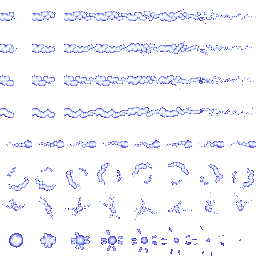
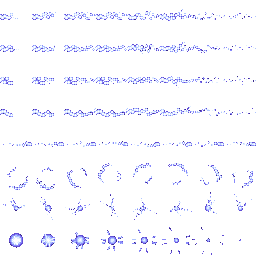
Akasha's lightning: thin bolts fired at random as projectiles

diff --git a/core/src/main/java/vajra/world/AstraFlow.java b/core/src/main/java/vajra/world/AstraFlow.java
@@ -56,18 +56,14 @@ public final class AstraFlow {
     public final ArrayList<Object[]> zapped = new ArrayList<>();
     private static final class Strike { Enemy e; float at; boolean done; float mult; }
     private final ArrayList<Strike> strikes = new ArrayList<>();
-    private int wave;
     private float zapAcc;
-    /** WAVES of lightning: the ring leaves at WAVE_GAP intervals, each striking every foe in reach; the first is the heaviest. */
-    public static final int WAVES = 5;
-    public static final float WAVE_GAP = 0.4f, ZAP_RATE = 0.07f, ZAP_SPEED = 1400f, ZAP_HIT = 15f, SHOCK_SECONDS = 0.7f;
-    private static final float[] WAVE_MULT = {1f, 0.45f, 0.35f, 0.3f, 0.25f};
+    /** Lightning is loosed as projectiles for FIRE_SECONDS, one every ZAP_RATE, at random angles. */
+    public static final float FIRE_SECONDS = 2.0f, ZAP_RATE = 0.02f, ZAP_SPEED = 1300f, ZAP_HIT = 24f, SHOCK_SECONDS = 0.7f;
     /** A small bolt thrown from the hull at a foe: it flies at ZAP_SPEED and shocks the foe where it lands. */
-    public static final class Zap { public float x, y, ang, age; public Enemy e; }
+    public static final class Zap { public float x, y, ang, age, flown, range; }
     public final ArrayList<Zap> zaps = new ArrayList<>();
     /** Where a thrown bolt landed: x, y, seconds since. */
     public final ArrayList<float[]> sparks = new ArrayList<>();
-    public int waveCount() { return wave; }
 
     // ---- Prithvi: the boulders ----
     public static final float T_ROCK = 3.0f, ROCK_DAMAGE = 70f, CHUNK_DAMAGE = 28f, PEBBLE_DAMAGE = 7f;
@@ -132,7 +128,6 @@ public final class AstraFlow {
         spawnAcc = scorchAcc = 0f;
         cuts = 0;
         thrown = false;
-        wave = 0;
         zapAcc = 0f;
         zaps.clear();
         sparks.clear();
@@ -183,86 +178,66 @@ public final class AstraFlow {
         zapped.add(new Object[] {e, t + dur});
     }
 
-    private void launchWave(World w, int k) {
-        int spokes = 12 + 2 * Math.min(k, 3);
-        float a0 = rng.nextFloat() * 6.2831853f;
-        for (int i = 0; i < spokes; i++) {                                 // the ring: bolts to every side, no two waves the same
-            float a = a0 + i * 6.2831853f / spokes + (rng.nextFloat() - 0.5f) * 0.35f, len = radius * (0.55f + 0.45f * rng.nextFloat());
-            addBolt(ship.x, ship.y, ship.x + (float) Math.cos(a) * len, ship.y + (float) Math.sin(a) * len, 0.55f, true);
-        }
-        ArrayList<Enemy> in = new ArrayList<>();
+    /** One projectile: a bolt leaves the hull at a random angle (about half of them aimed at a foe, with error) and flies straight until it touches a foe or runs out of range. */
+    private void fire(World w) {
+        if (zaps.size() >= 60) return;
+        float a;
+        ArrayList<Enemy> pool = new ArrayList<>();
         for (Enemy e : w.enemies) {
             if (!eligible(e)) continue;
             float dx = e.x - ship.x, dy = e.y - ship.y;
-            if (dx * dx + dy * dy <= radius * radius) in.add(e);
+            if (dx * dx + dy * dy <= radius * radius * 2.2f) pool.add(e);
         }
-        final float sx = ship.x, sy = ship.y;
-        in.sort((p, q) -> Float.compare((p.x - sx) * (p.x - sx) + (p.y - sy) * (p.y - sy), (q.x - sx) * (q.x - sx) + (q.y - sy) * (q.y - sy)));
-        for (int i = 0; i < in.size(); i++) {                              // nearest first, one every 12 ms
-            Strike s = new Strike();
-            s.e = in.get(i);
-            s.at = t + 0.05f + 0.012f * Math.min(i, 40);
-            s.mult = WAVE_MULT[Math.min(k, WAVE_MULT.length - 1)];
-            strikes.add(s);
-        }
+        if (!pool.isEmpty() && rng.nextFloat() < 0.5f) {
+            Enemy e = pool.get(rng.nextInt(pool.size()));
+            a = (float) Math.atan2(e.y - ship.y, e.x - ship.x) + (rng.nextFloat() - 0.5f) * 0.25f;
+        } else a = rng.nextFloat() * 6.2831853f;
+        Zap z = new Zap();
+        float off = 24f;
+        z.x = ship.x + (float) Math.cos(a) * off; z.y = ship.y + (float) Math.sin(a) * off;
+        z.ang = a;
+        z.range = radius * (1.1f + 0.7f * rng.nextFloat());
+        zaps.add(z);
     }
 
     private void stepLightning(World w, float dt) {
         for (int i = bolts.size() - 1; i >= 0; i--) if ((bolts.get(i).age += dt) > bolts.get(i).life) bolts.remove(i);
         for (int i = sparks.size() - 1; i >= 0; i--) if ((sparks.get(i)[2] += dt) > 0.28f) sparks.remove(i);
-        while (wave < WAVES && t >= wave * WAVE_GAP) launchWave(w, wave++);
-        if (t >= 0.15f && t <= WAVES * WAVE_GAP - 0.1f) {                  // small bolts thrown from the hull at foes, one every 70 ms
+        if (t <= FIRE_SECONDS) {                                           // bolts loosed at random, many a second
             zapAcc += dt;
-            while (zapAcc >= ZAP_RATE) {
-                zapAcc -= ZAP_RATE;
-                if (zaps.size() >= 40) break;
-                ArrayList<Enemy> pool = new ArrayList<>();
-                for (Enemy e : w.enemies) {
-                    if (!eligible(e)) continue;
-                    float dx = e.x - ship.x, dy = e.y - ship.y;
-                    if (dx * dx + dy * dy <= radius * radius * 1.7f) pool.add(e);
-                }
-                if (pool.isEmpty()) break;
-                Zap z = new Zap();
-                z.x = ship.x; z.y = ship.y;
-                z.e = pool.get(rng.nextInt(pool.size()));
-                z.ang = (float) Math.atan2(z.e.y - z.y, z.e.x - z.x);
-                zaps.add(z);
-            }
+            while (zapAcc >= ZAP_RATE) { zapAcc -= ZAP_RATE; fire(w); }
         }
-        for (int i = zaps.size() - 1; i >= 0; i--) {                       // each flies at its foe and shocks it where it lands
+        for (int i = zaps.size() - 1; i >= 0; i--) {
             Zap z = zaps.get(i);
+            float step = ZAP_SPEED * dt;
             z.age += dt;
-            if (z.e.dead || z.age > 1.5f) { zaps.remove(i); continue; }
-            float dx = z.e.x - z.x, dy = z.e.y - z.y, d = (float) Math.sqrt(dx * dx + dy * dy), step = ZAP_SPEED * dt;
-            z.ang = (float) Math.atan2(dy, dx);
-            if (d <= step + Math.max(z.e.w, z.e.h) * 0.3f) {
-                sparks.add(new float[] {z.e.x, z.e.y, 0f});
-                if (!w.clientSeat) z.e.hurt(ZAP_HIT * dm, w, seat);
-                shock(z.e, SHOCK_SECONDS);
-                zaps.remove(i);
-            } else { z.x += dx / d * step; z.y += dy / d * step; }
-        }
-        for (Strike s : strikes) {
-            if (s.done || t < s.at) continue;
-            s.done = true;
-            Enemy e = s.e;
-            if (e.dead) continue;
-            addBolt(ship.x, ship.y, e.x, e.y, 0.4f, false);
-            shock(e, ZAP_STUN + 0.2f);
-            if (!w.clientSeat) {
-                e.hurt(ZAP_DAMAGE * dm * s.mult, w, seat);
-                if (!e.boss && !e.dead) { e.caught = Math.max(e.caught, ZAP_STUN * (s.mult < 1f ? 0.6f : 1f)); e.active = true; }
-                int arcs = 0;                                              // the lightning jumps from it to the two nearest foes within reach
-                for (Enemy o : w.enemies) {
-                    if (o == e || !eligible(o) || arcs >= 2) continue;
-                    float dx = o.x - e.x, dy = o.y - e.y;
-                    if (dx * dx + dy * dy > ARC_REACH * ARC_REACH) continue;
-                    arcs++;
-                    addBolt(e.x, e.y, o.x, o.y, 0.3f, false);
-                    shock(o, 0.4f);
-                    o.hurt(ZAP_DAMAGE * dm * s.mult * ARC_SHARE, w, seat);
-                }
+            z.x += (float) Math.cos(z.ang) * step;
+            z.y += (float) Math.sin(z.ang) * step;
+            z.flown += step;
+            Enemy hit = null;
+            for (Enemy e : w.enemies) {
+                if (!eligible(e)) continue;
+                float dx = e.x - z.x, dy = e.y - z.y, r = Math.max(e.w, e.h) * 0.5f + 8f;
+                if (dx * dx + dy * dy <= r * r) { hit = e; break; }
+            }
+            if (hit == null) { if (z.flown > z.range) zaps.remove(i); continue; }
+            zaps.remove(i);
+            sparks.add(new float[] {z.x, z.y, 0f});
+            shock(hit, SHOCK_SECONDS);
+            if (w.clientSeat) continue;
+            hit.hurt(ZAP_HIT * dm, w, seat);
+            if (!hit.boss && !hit.dead) { hit.caught = Math.max(hit.caught, ZAP_STUN); hit.active = true; }
+            Enemy best = null;
+            float bd = ARC_REACH * ARC_REACH;
+            for (Enemy o : w.enemies) {                                    // and it jumps, thin, to the nearest foe within reach
+                if (o == hit || !eligible(o)) continue;
+                float dx = o.x - hit.x, dy = o.y - hit.y, d = dx * dx + dy * dy;
+                if (d < bd) { bd = d; best = o; }
+            }
+            if (best != null) {
+                addBolt(hit.x, hit.y, best.x, best.y, 0.3f, false);
+                shock(best, 0.4f);
+                best.hurt(ZAP_HIT * dm * ARC_SHARE, w, seat);
             }
         }
         for (int i = zapped.size() - 1; i >= 0; i--) {
@@ -270,9 +245,7 @@ public final class AstraFlow {
             float left = (Float) zapped.get(i)[1] - t;
             if (left <= 0f || e.dead) { e.shockT = 0f; zapped.remove(i); } else e.shockT = left;
         }
-        boolean pending = false;
-        for (Strike s : strikes) if (!s.done) { pending = true; break; }
-        if (wave >= WAVES && t > WAVES * WAVE_GAP && !pending && bolts.isEmpty() && zaps.isEmpty() && sparks.isEmpty() && zapped.isEmpty()) cancel();
+        if (t > FIRE_SECONDS && bolts.isEmpty() && zaps.isEmpty() && sparks.isEmpty() && zapped.isEmpty()) cancel();
     }
 
     /** PRITHVI: boulders form out of the mandala and are hurled (docs/ASTRA_NEXT_PLAN.md section 3). The mandala stays while it lasts. */

diff --git a/core/src/test/java/vajra/world/AstraNextTest.java b/core/src/test/java/vajra/world/AstraNextTest.java
@@ -68,55 +68,40 @@ class AstraNextTest {
     // ---- AKASHA ----------------------------------------------------------------------------------------------------------------------
 
     @Test
-    void theLightningStrikesEveryFoeInReachNearestFirstStunsThemAndArcsToTheirNeighbours() {
+    void theLightningIsLoosedAsProjectilesAtRandomAnglesThatShockAndStunWhatTheyTouch() {
         World w = arena();
-        Enemy near = foe(w, 2600 + 120, 2700, 400), mid = foe(w, 2600, 2700 + 250, 400), far = foe(w, 2600 - 330, 2700, 400), out = foe(w, 2600 + 900, 2700, 400);
-        Enemy buddy = foe(w, 2600 + 120 + 90, 2700, 400);                 // within arc reach of the nearest
-        w.ship.shieldEnergy = 0f;
+        Enemy e = foe(w, 2600 + 220, 2700, 100000);
         w.flow.startLightning(w.ship, 0, 1f, 1f, 7L);
-        run(w, 0.02f);
-        assertTrue(near.hp == 400f && mid.hp == 400f, "nothing is struck in the very first instant");
-        run(w, 0.6f);
-        assertTrue(near.hp < 400f && mid.hp < 400f && far.hp < 400f, "every foe in reach was struck");
-        assertEquals(400f, out.hp, 0.001f, "and none outside it");
-        assertTrue(buddy.hp < 400f, "the lightning arcs to a neighbour within reach");
-        assertTrue(near.hp < buddy.hp + 1f || buddy.hp < 400f, "(the nearest took the full bolt)");
+        run(w, 0.3f);
+        assertTrue(!w.flow.zaps.isEmpty(), "bolts are in flight");
+        float lo = 99f, hi = -99f;
+        for (AstraFlow.Zap z : w.flow.zaps) { lo = Math.min(lo, z.ang); hi = Math.max(hi, z.ang); }
+        run(w, 0.5f);
+        for (AstraFlow.Zap z : w.flow.zaps) { lo = Math.min(lo, z.ang); hi = Math.max(hi, z.ang); }
+        assertTrue(hi - lo > 3f, "they leave at random angles, not in a ring (" + (hi - lo) + " rad)");
+        assertTrue(e.hp < 100000f - AstraFlow.ZAP_HIT, "the ones that touch a foe hurt it");
+        assertTrue(e.shockT > 0f || e.caught > 0f, "and shock it");
     }
 
     @Test
-    void aStruckFoeIsStunnedAndShockedAndTheNextWaveStrikesAgainForLess() {
+    void aBoltFlyingAwayFromEveryFoeHitsNothingAndTheLightningLastsAboutTwoSecondsThenEnds() {
         World w = arena();
-        Enemy e = foe(w, 2600 + 200, 2700, 5000);
-        w.flow.startLightning(w.ship, 0, 1f, 1f, 7L);
-        run(w, 0.12f);
-        assertTrue(e.caught > 0.3f, "it is stunned: its brain waits");
-        assertTrue(e.shockT > 0f, "and shocked: it jitters and crackles");
-        assertEquals(5000f - AstraFlow.ZAP_DAMAGE, e.hp, 1f, "the first strike is the full damage");
-        float afterFirst = e.hp;
-        run(w, 0.45f);
-        assertTrue(e.hp <= afterFirst - AstraFlow.ZAP_DAMAGE * 0.4f, "the second wave strikes again, lighter (" + (afterFirst - e.hp) + ")");
-    }
-
-    @Test
-    void theLightningLastsTwoSecondsInWavesOfBoltsInEveryDirectionWithSmallBoltsThrownAtFoes() {
-        World w = arena();
-        Enemy e = foe(w, 2600 + 250, 2700, 100000);
+        Enemy e = foe(w, 2600 + 220, 2700, 100000);
         w.flow.startLightning(w.ship, 0, 1f, 1f, 7L);
         run(w, 1.5f);
         assertTrue(w.flow.active(), "still crackling after a second and a half");
-        assertEquals(AstraFlow.WAVES, w.flow.waveCount() >= AstraFlow.WAVES - 1 ? AstraFlow.WAVES : w.flow.waveCount(), "waves keep coming");
-        float lo = 99f, hi = -99f;
-        w.flow.startLightning(w.ship, 0, 1f, 1f, 9L);                       // a fresh one, to read the spokes of its first wave
-        run(w, 0.02f);
-        for (AstraFlow.Bolt b : w.flow.bolts) { float a = (float) Math.atan2(b.y1 - b.y0, b.x1 - b.x0); lo = Math.min(lo, a); hi = Math.max(hi, a); }
-        assertTrue(hi - lo > 4f, "bolts leave in every direction (" + (hi - lo) + " rad)");
-        w.flow.startLightning(w.ship, 0, 1f, 1f, 7L);
-        e.hp = 100000f;
-        run(w, 0.3f);
-        assertTrue(!w.flow.zaps.isEmpty() || !w.flow.sparks.isEmpty() || e.hp < 100000f - AstraFlow.ZAP_DAMAGE, "small bolts are thrown at the foe");
         run(w, 4f);
         assertTrue(!w.flow.active(), "it ends");
         assertEquals(0f, e.shockT, 0.0001f, "and the shock ends with it");
+    }
+
+    @Test
+    void aFoeBeyondTheBoltsRangeIsNeverTouched() {
+        World w = arena();
+        Enemy out = foe(w, 2600 + 3000, 2700, 400);
+        w.flow.startLightning(w.ship, 0, 1f, 1f, 7L);
+        run(w, 3f);
+        assertEquals(400f, out.hp, 0.001f);
     }
 
     @Test

diff --git a/core/src/main/java/vajra/screen/FlowFx.java b/core/src/main/java/vajra/screen/FlowFx.java
@@ -121,20 +121,10 @@ final class FlowFx {
     /** AKASHA: bolts tiled end to end from the sheet (each forms, crackles and fades over its life), arcs round the ring of each wave, small bolts in flight, sparks where they land,
      *  and a web of sparks over every shocked foe. */
     private void lightning(SpriteBatch b, AstraFlow f, float time) {
-        for (int k = 0; k < f.waveCount(); k++) {                           // each wave's ring: curls of crackle racing out round the hull
-            float age = f.t - k * AstraFlow.WAVE_GAP;
-            if (age < 0f || age > 0.5f) continue;
-            float rr = f.radius * Math.min(1f, age / 0.3f), al = 1f - Math.max(0f, age - 0.3f) / 0.2f;
-            int arcs = 18;
-            for (int i = 0; i < arcs; i++) {
-                float a = i * 6.2831853f / arcs + k * 0.37f;
-                sprite(b, BOLT, 5, (int) (time * 20f) + i, f.ship.x + rr * (float) Math.cos(a), f.ship.y + rr * (float) Math.sin(a), 110f, (float) Math.toDegrees(a) + 90f, al);
-            }
-        }
         for (AstraFlow.Bolt bo : f.bolts) {
             float dx = bo.x1 - bo.x0, dy = bo.y1 - bo.y0, len = (float) Math.sqrt(dx * dx + dy * dy);
             if (len < 8f) continue;
-            float u = bo.age / bo.life, deg = (float) Math.toDegrees(Math.atan2(dy, dx)), h = bo.big ? 74f : 46f, ux = dx / len, uy = dy / len;
+            float u = bo.age / bo.life, deg = (float) Math.toDegrees(Math.atan2(dy, dx)), h = 44f, ux = dx / len, uy = dy / len;
             int fr = Math.min(7, (int) (u * 8f)), n = Math.max(1, (int) Math.ceil(len / 60f));
             float seg = len / n;
             for (int i = 0; i < n; i++) {
@@ -145,7 +135,7 @@ final class FlowFx {
                 b.draw(r, cx - seg / 2f, cy - h / 2f, seg / 2f, h / 2f, seg, h, 1f, 1f, deg);
             }
         }
-        for (AstraFlow.Zap z : f.zaps) sprite(b, BOLT, 4, (int) (z.age * 30f), z.x - (float) Math.cos(z.ang) * 18f, z.y - (float) Math.sin(z.ang) * 18f, 88f, (float) Math.toDegrees(z.ang), 1f);
+        for (AstraFlow.Zap z : f.zaps) sprite(b, BOLT, 4, (int) (z.age * 30f), z.x - (float) Math.cos(z.ang) * 36f, z.y - (float) Math.sin(z.ang) * 36f, 130f, (float) Math.toDegrees(z.ang), 1f);
         for (float[] sp : f.sparks) sprite(b, BOLT, 7, Math.min(7, (int) (sp[2] / 0.28f * 8f)), sp[0], sp[1], 90f, 0f, 1f);
         int idx = 0;
         for (Object[] zz : f.zapped) {                                      // a web of sparks and a curl of crackle over every shocked foe

diff --git a/core/src/main/java/vajra/screen/AstraFx.java b/core/src/main/java/vajra/screen/AstraFx.java
@@ -251,15 +251,8 @@ final class AstraFx {
     private static void lightning(ShapeRenderer s, World w, float t) {
         vajra.world.AstraFlow f = w.flow;
         if (f.ship == null) return;
-        for (int k = 0; k < f.waveCount(); k++) {
-            float age = f.t - k * vajra.world.AstraFlow.WAVE_GAP;
-            if (age < 0f || age > 0.6f) continue;
-            float rr = f.radius * Math.min(1f, age / 0.3f), fade = 1f - MathUtils.clamp((age - 0.3f) / 0.3f, 0f, 1f);
-            s.setColor(0.70f, 0.50f, 1f, 0.16f * fade);
-            ring(s, f.ship.x, f.ship.y, rr, 72, 9f);
-            s.setColor(0.85f, 0.75f, 1f, 0.10f * fade * Math.max(0f, 1f - age / 0.2f));
-            s.circle(f.ship.x, f.ship.y, f.radius * 0.35f, 32);
-        }
+        float fade = 1f - MathUtils.clamp(f.t / 0.3f, 0f, 1f);                // a violet flash at the hull as it begins
+        if (fade > 0f) { s.setColor(0.85f, 0.75f, 1f, 0.12f * fade); s.circle(f.ship.x, f.ship.y, f.radius * 0.35f, 32); }
     }
 
     private static float headSize(int element) {

diff --git a/tools/enemy_art/lightning.py b/tools/enemy_art/lightning.py
@@ -28,7 +28,7 @@ SKY = np.array([(255, 255, 255), (226, 238, 255), (176, 198, 255), (136, 138, 25
 
 def st(pts, ws, soft=1.0):
     """FX.stroke with every width scaled up: a bolt is a few pixels thick in a 32 px cell."""
-    return FX.stroke(pts, [w * 2.4 for w in ws], soft)
+    return FX.stroke(pts, [w * 1.6 for w in ws], soft)
 
 
 def path(rng, x0, x1, amp, n, y=32.0):
@@ -92,7 +92,7 @@ def zap_row(img, row):
         pts = path(rng, 6.0, 60.0, 4.0, 8)
         v = st(pts, [(0.6 + 1.9 * (i / 8.0)) for i in range(9)], 1.2)
         head = np.hypot(XS - 56, YS - 32)
-        v = np.maximum(v, np.clip(1.0 - head / 8.0, 0, 1) * (0.8 + 0.2 * math.sin(f * 1.7)))
+        v = np.maximum(v, np.clip(1.0 - head / 4.5, 0, 1) * (0.8 + 0.2 * math.sin(f * 1.7)))
         img[row * S:(row + 1) * S, f * S:(f + 1) * S] = FX.band(np.clip(v * 1.1, 0, 1), SKY)
 
 

diff --git a/lwjgl3/src/test/java/vajra/screen/FlowShotTest.java b/lwjgl3/src/test/java/vajra/screen/FlowShotTest.java
@@ -75,7 +75,7 @@ class FlowShotTest {
                             case 3: w.flow.startBoulders(w.ship, 0, 1f, 1f, 5L); break;
                             default: w.flow.startLotus(w.ship, 0, 1f, 1f, 5L); break;
                         }
-                        float[][] moments = {{0.5f, 1.0f, 1.7f, 2.6f}, {0.7f, 1.3f, 1.9f, 2.5f}, {0.1f, 0.5f, 1.0f, 1.7f}, {0.5f, 1.2f, 2.0f, 3.0f}, {0.5f, 1.2f, 2.0f, 3.2f}};
+                        float[][] moments = {{0.5f, 1.0f, 1.7f, 2.6f}, {0.7f, 1.3f, 1.9f, 2.5f}, {0.15f, 0.5f, 1.0f, 1.6f}, {0.5f, 1.2f, 2.0f, 3.0f}, {0.5f, 1.2f, 2.0f, 3.2f}};
                         float[] at = moments[which];
                         Pixmap sheet = new Pixmap(W * 2, H * 2, Pixmap.Format.RGBA8888);
                         float t = 0;
